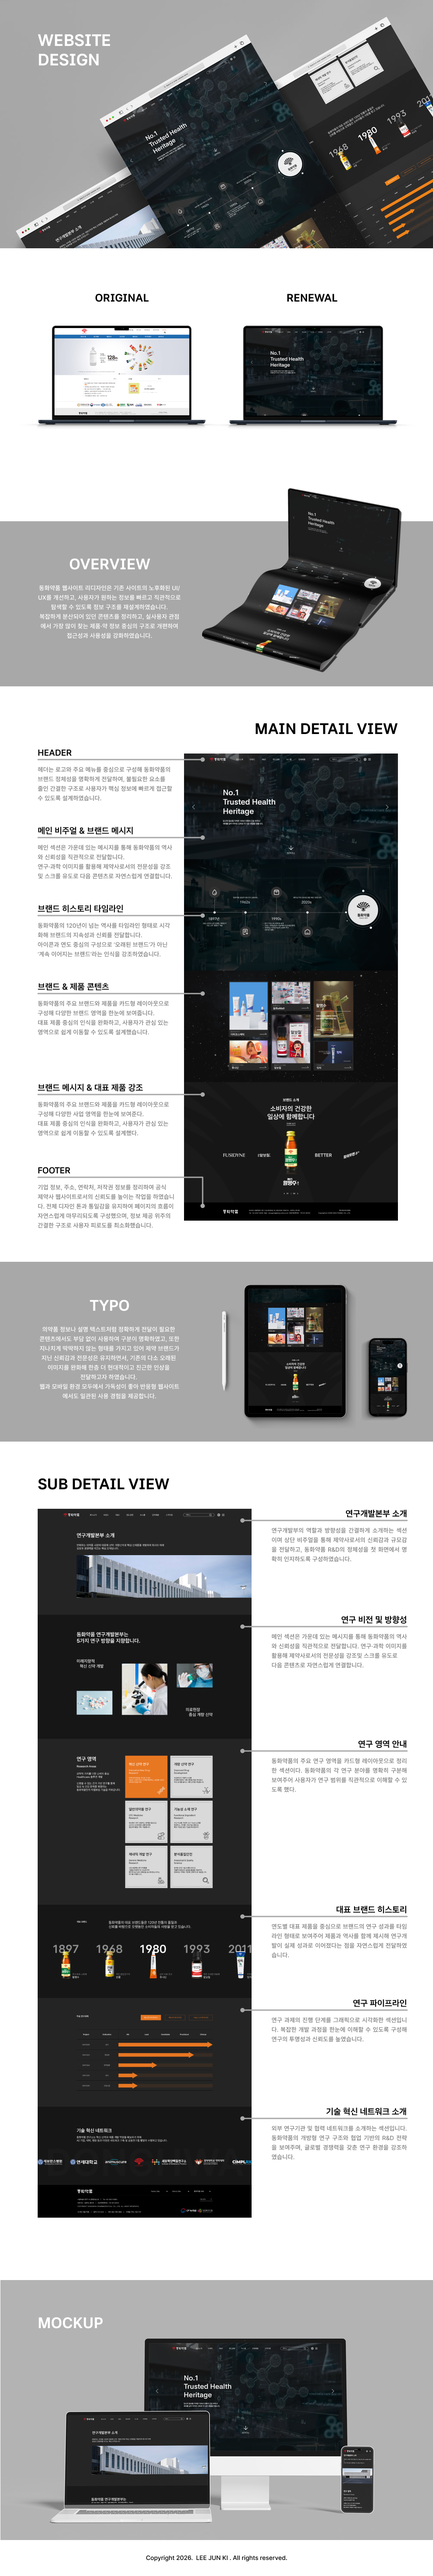
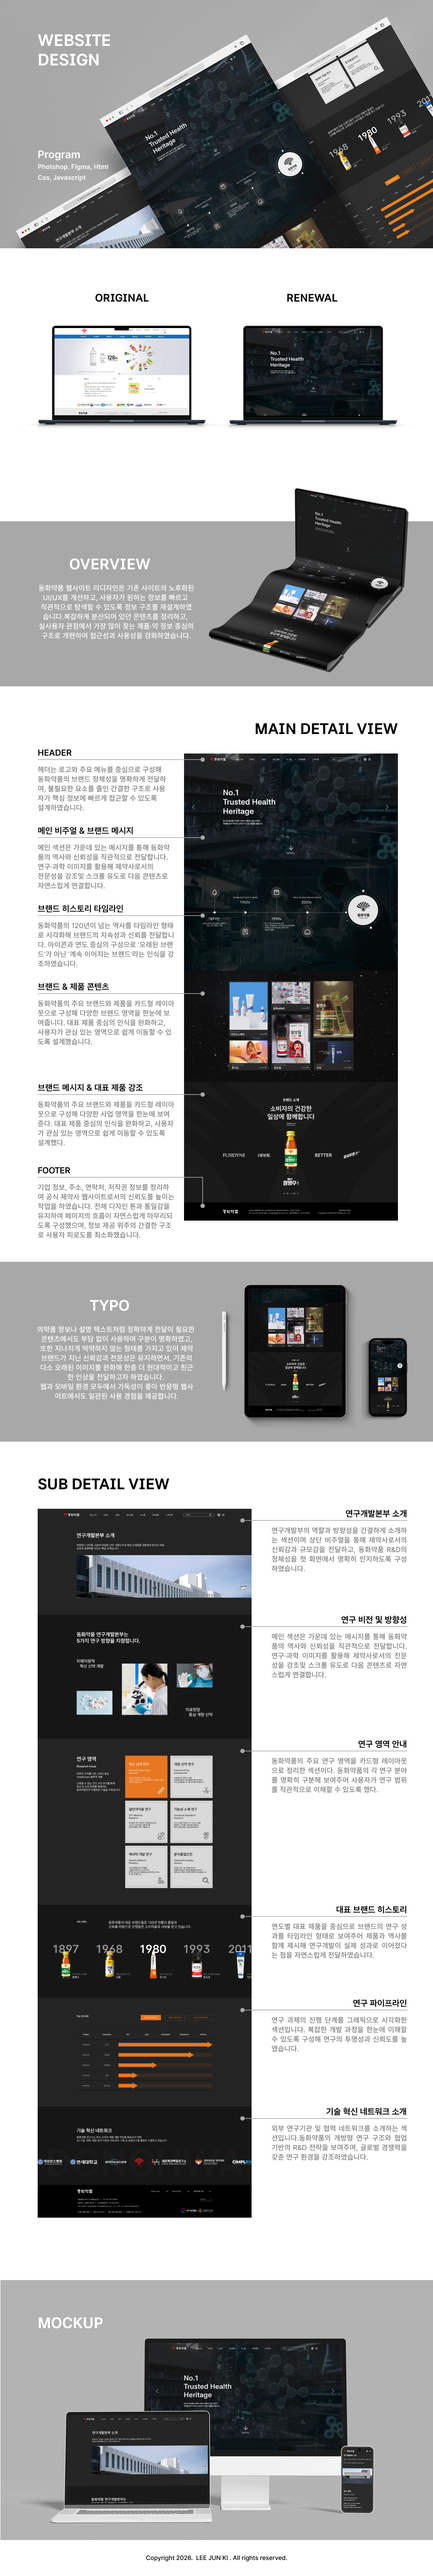
모달창 수정

diff --git a/css/portfolio01.css b/css/portfolio01.css
@@ -623,7 +623,7 @@ button {
 .landing-modal-inner {
   position: relative;
   max-width: 1000px;
-  width: 90%;
+  /* width: 90%; */
   max-height: 90vh;
   background: #fff;
   padding: 20px;

diff --git a/css/portfolio02.css b/css/portfolio02.css
@@ -251,6 +251,8 @@
   height: 58px;
 }
 
+
+
 .btn.black {
   font-size: 32px;
   background: #000;
